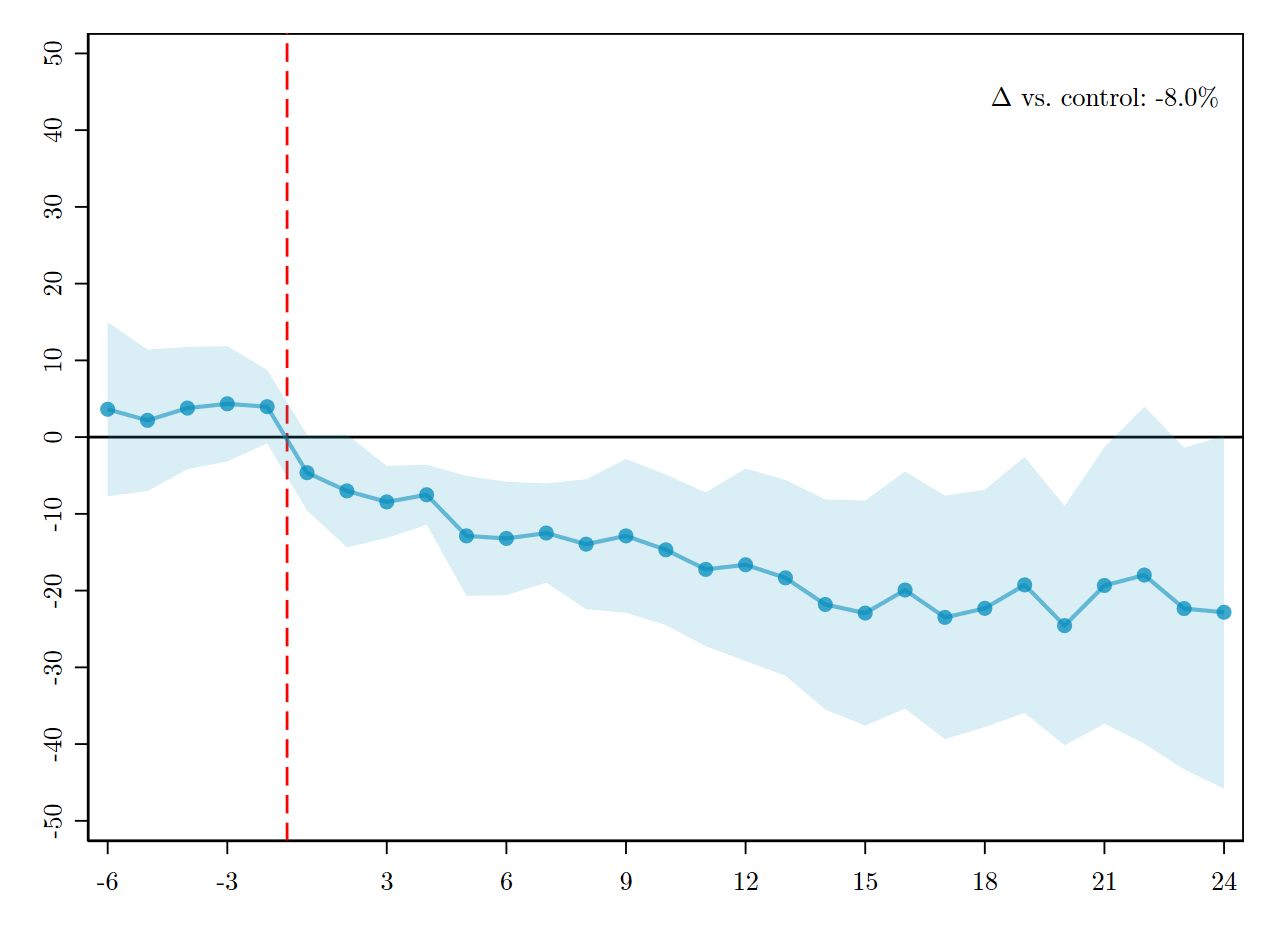
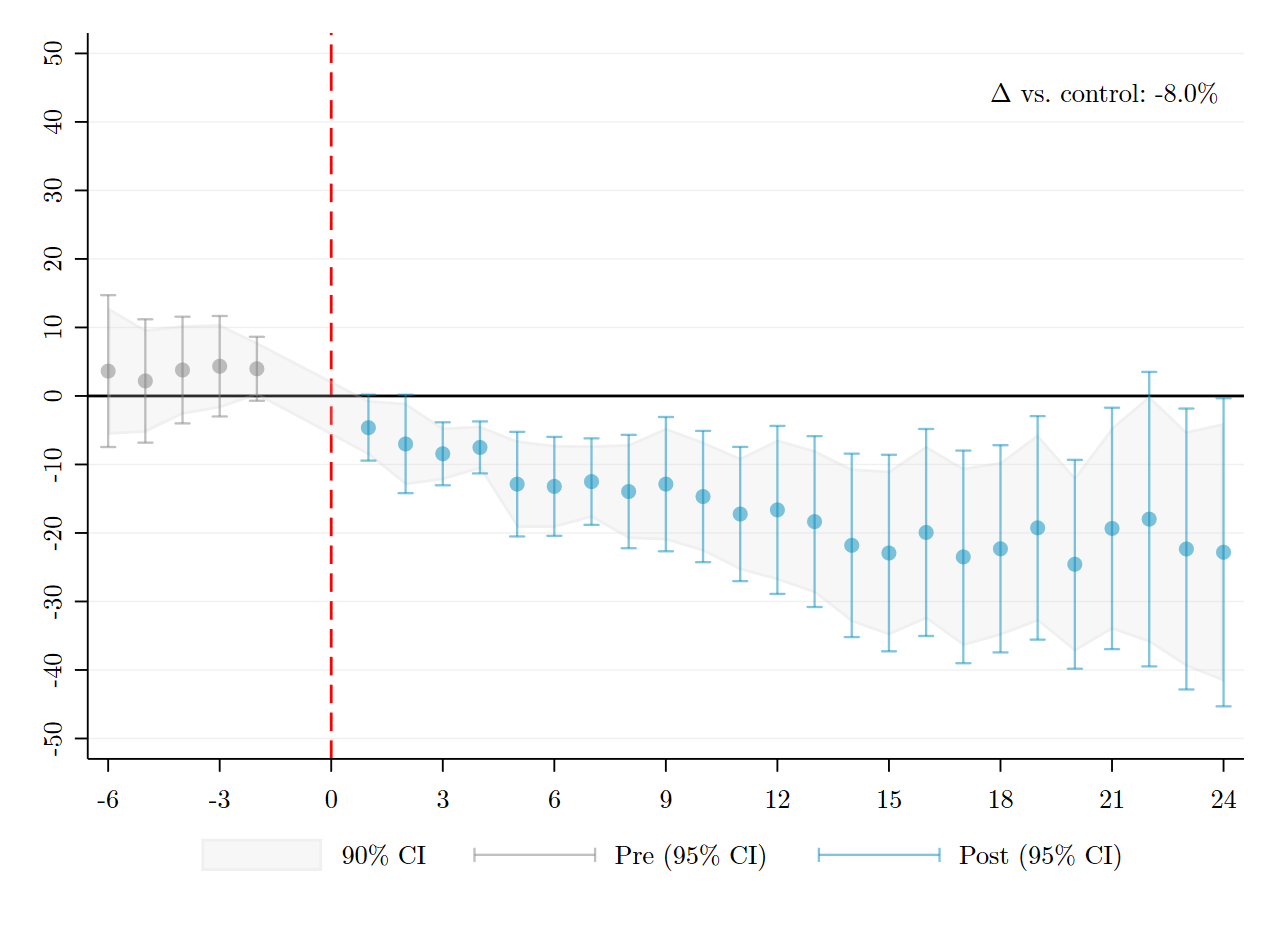
update-raids-graph

diff --git a/index.html b/index.html
@@ -213,7 +213,7 @@
           </div>
 
           <figure class="project__figure">
-            <img src="img/research-narcos-raids-event-study.png" alt="Stacked event-study estimates of anti-narcotics raids on total reported crime in treated villas, monthly frequency, twenty-four-month window." />
+            <img src="img/research-narcos-raids-event-study.png?v=2" alt="Stacked event-study estimates of anti-narcotics raids on total reported crime in treated villas, monthly frequency, twenty-four-month window." />
             <figcaption>
               Stacked event-study coefficients on total reported crime (monthly,
               &plusmn;24-month window).
